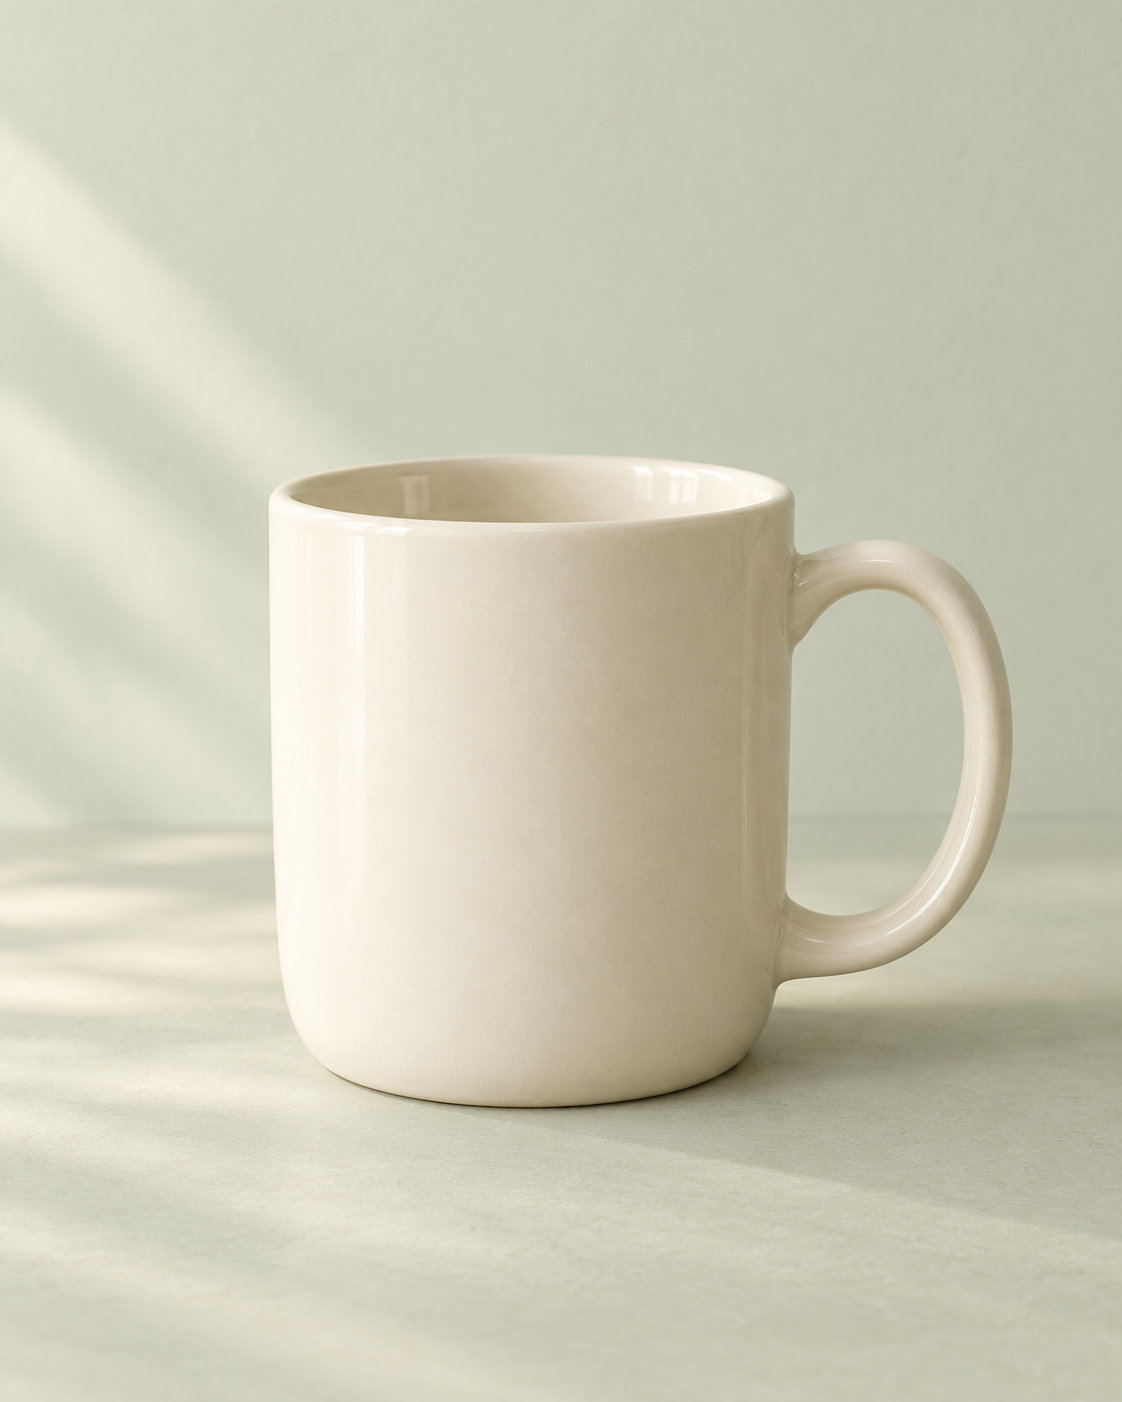
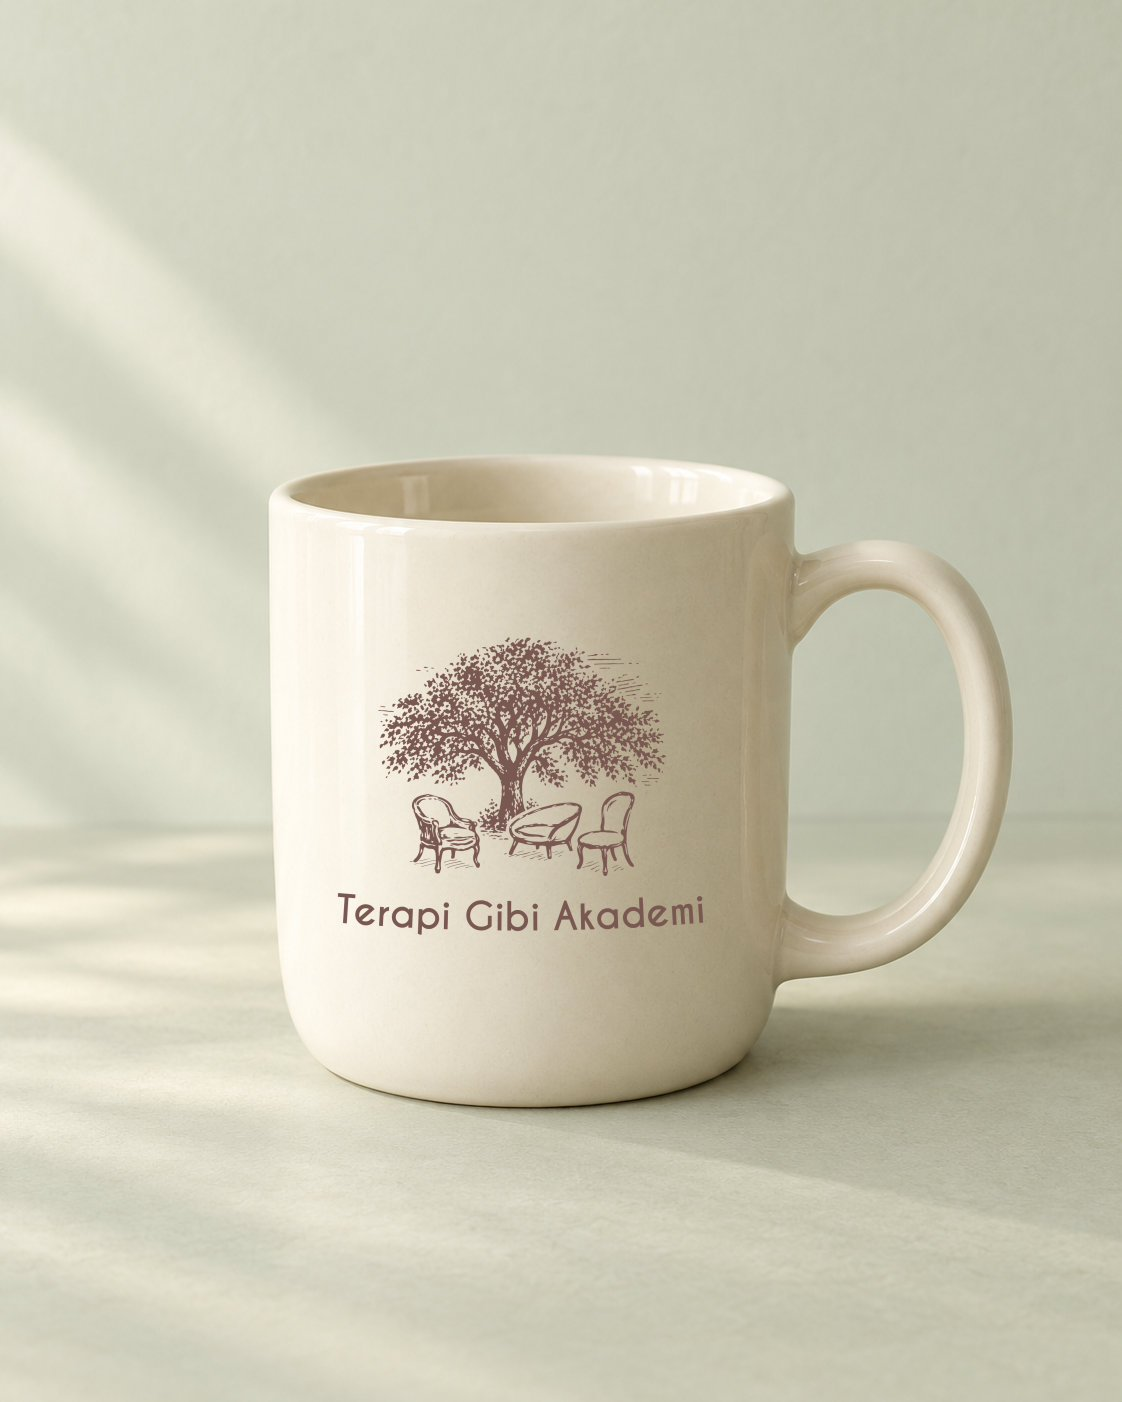
Shop: photos only; photo viewer carousel with looping arrows; white arrow on hover
- Shop cards show only the product photos (logo is drawn into the images), photos fill a 4:5 frame
- "The many ways of being together": full-screen photo viewer scrolls in a loop with round arrows, keyboard and swipe; arrows move below the photo on mobile
- Round arrow buttons: white arrow on the green fill on hover
- Remove unused logo.png and hero-tree.png

Changed region(s): [[0.3431, 0.4601, 0.5927, 0.6134], [0.3119, 0.6441, 0.6239, 0.6748]]

diff --git a/index.html b/index.html
@@ -6,7 +6,7 @@
   <meta name="description" content="Reading groups, workshops and a place to think together.">
   <link rel="preconnect" href="https://fonts.googleapis.com"><link rel="preconnect" href="https://fonts.gstatic.com" crossorigin>
   <link href="https://fonts.googleapis.com/css2?family=Josefin+Sans:wght@300..500&family=Manrope:wght@400;500;600&display=swap" rel="stylesheet">
-  <link rel="stylesheet" href="styles-v4.css?v=v4-logo2"><script src="locales-v3.js?v=date" defer></script><script src="i18n-v3.js?v=clean-1" defer></script><script src="hero-fx-v4.js?v=leaves-m2" defer></script><script src="home-v4.js?v=v4-menu2" defer></script>
+  <link rel="stylesheet" href="styles-v4.css?v=lightbox-nav2"><script src="locales-v3.js?v=lightbox-nav" defer></script><script src="i18n-v3.js?v=clean-1" defer></script><script src="hero-fx-v4.js?v=leaves-m2" defer></script><script src="home-v4.js?v=lightbox-nav2" defer></script>
 </head>
 <body>
 <a class="skip" href="#main">Skip to content</a>
@@ -54,7 +54,7 @@
     <article class="course"><button class="image-button" data-detail="clay-course" aria-label="Explore the ceramics course"><img src="assets-v3/ceramics.jpg" alt="Hands shaping a ceramic bowl" loading="lazy"><span class="image-label">4 MEETINGS</span></button><div class="course-meta"><span>Ceramics course</span><span>12 December</span></div><h3>Thinking with our hands:<br>a journey in ceramics</h3><div class="card-bottom"><span>₺3,200 / course</span><button class="text-link" data-detail="clay-course">Explore the course <img class="arrow" src="assets-v3/arrow.png" alt="" width="16" height="16"></button></div></article>
   </div></section>
 
-  <section class="shop-section tinted" id="shop"><div class="wrap"><p class="eyebrow">Shop</p><div class="section-heading"><h2>A little Akademi.<br>Every day.</h2><p class="short-copy">Objects to read with, write in and take along. A first look at our branded collection.</p></div><div class="product-grid"><article class="product product-mug"><button class="product-image" data-detail="product-mug" aria-label="View mug"><img class="product-photo" src="assets-v3/product-mug-v1.jpg" alt="An ivory ceramic mug with the Akademi logo" loading="lazy"><img class="product-mark" src="assets-v3/logo.png" alt=""></button><h3>Mug</h3><button class="text-link" data-detail="product-mug">View product <img class="arrow" src="assets-v3/arrow.png" alt="" width="16" height="16"></button></article><article class="product product-tshirt"><button class="product-image" data-detail="product-tshirt" aria-label="View t-shirt"><img class="product-photo" src="assets-v3/product-tshirt-v1.jpg" alt="An ivory T-shirt with the Akademi logo" loading="lazy"><img class="product-mark" src="assets-v3/logo.png" alt=""></button><h3>T-shirt</h3><button class="text-link" data-detail="product-tshirt">View product <img class="arrow" src="assets-v3/arrow.png" alt="" width="16" height="16"></button></article><article class="product product-calendar"><button class="product-image" data-detail="product-calendar" aria-label="View calendar"><img class="product-photo" src="assets-v3/calendar.jpg" alt="An illustrated desk calendar" loading="lazy"></button><h3>Calendar</h3><button class="text-link" data-detail="product-calendar">View product <img class="arrow" src="assets-v3/arrow.png" alt="" width="16" height="16"></button></article><article class="product product-notebook"><button class="product-image" data-detail="product-notebook" aria-label="View notebook"><img class="product-photo" src="assets-v3/product-notebook-v1.jpg" alt="A sage notebook with the Akademi logo" loading="lazy"><img class="product-mark" src="assets-v3/logo.png" alt=""></button><h3>Notebook</h3><button class="text-link" data-detail="product-notebook">View product <img class="arrow" src="assets-v3/arrow.png" alt="" width="16" height="16"></button></article><article class="product product-tote"><button class="product-image" data-detail="product-tote" aria-label="View tote bag"><img class="product-photo" src="assets-v3/product-tote-v1.jpg" alt="A natural cotton tote bag with the Akademi logo" loading="lazy"><img class="product-mark" src="assets-v3/logo.png" alt=""></button><h3>Tote bag</h3><button class="text-link" data-detail="product-tote">View product <img class="arrow" src="assets-v3/arrow.png" alt="" width="16" height="16"></button></article></div></div></section>
+  <section class="shop-section tinted" id="shop"><div class="wrap"><p class="eyebrow">Shop</p><div class="section-heading"><h2>A little Akademi.<br>Every day.</h2><p class="short-copy">Objects to read with, write in and take along. A first look at our branded collection.</p></div><div class="product-grid"><article class="product product-mug"><button class="product-image" data-detail="product-mug" aria-label="View mug"><img class="product-photo" src="assets-v3/product-mug-v1.jpg" alt="An ivory ceramic mug with the Akademi logo" loading="lazy"></button><h3>Mug</h3><button class="text-link" data-detail="product-mug">View product <img class="arrow" src="assets-v3/arrow.png" alt="" width="16" height="16"></button></article><article class="product product-tshirt"><button class="product-image" data-detail="product-tshirt" aria-label="View t-shirt"><img class="product-photo" src="assets-v3/product-tshirt-v1.jpg" alt="An ivory T-shirt with the Akademi logo" loading="lazy"></button><h3>T-shirt</h3><button class="text-link" data-detail="product-tshirt">View product <img class="arrow" src="assets-v3/arrow.png" alt="" width="16" height="16"></button></article><article class="product product-calendar"><button class="product-image" data-detail="product-calendar" aria-label="View calendar"><img class="product-photo" src="assets-v3/calendar.jpg" alt="An illustrated desk calendar" loading="lazy"></button><h3>Calendar</h3><button class="text-link" data-detail="product-calendar">View product <img class="arrow" src="assets-v3/arrow.png" alt="" width="16" height="16"></button></article><article class="product product-notebook"><button class="product-image" data-detail="product-notebook" aria-label="View notebook"><img class="product-photo" src="assets-v3/product-notebook-v1.jpg" alt="A sage notebook with the Akademi logo" loading="lazy"></button><h3>Notebook</h3><button class="text-link" data-detail="product-notebook">View product <img class="arrow" src="assets-v3/arrow.png" alt="" width="16" height="16"></button></article><article class="product product-tote"><button class="product-image" data-detail="product-tote" aria-label="View tote bag"><img class="product-photo" src="assets-v3/product-tote-v1.jpg" alt="A natural cotton tote bag with the Akademi logo" loading="lazy"></button><h3>Tote bag</h3><button class="text-link" data-detail="product-tote">View product <img class="arrow" src="assets-v3/arrow.png" alt="" width="16" height="16"></button></article></div></div></section>
 
   <section class="section wrap" id="moments"><p class="eyebrow">Around the table</p><div class="section-heading"><h2>The many ways of being together.</h2><p class="short-copy">Sometimes a sentence. Sometimes paint on our hands. Sometimes simply being in the same place.</p></div><div class="moments moments-mosaic"><figure class="moment-one"><button type="button" class="moment-open" aria-label="View photo: A little anticipation."><img src="assets-v3/client-workshop-setup.jpg" alt="Preparing the table for a lampshade painting workshop" loading="lazy"></button><figcaption class="moment-caption" aria-hidden="true">A little anticipation.</figcaption></figure><figure class="moment-two"><button type="button" class="moment-open" aria-label="View photo: Between the pages."><img src="assets-v3/client-reading-group.jpg" alt="Members of the Akademi reading club with their books" loading="lazy"></button><figcaption class="moment-caption" aria-hidden="true">Between the pages.</figcaption></figure><figure class="moment-three"><button type="button" class="moment-open" aria-label="View photo: Something of our own."><img src="assets-v3/client-workshop-group.jpg" alt="Workshop participants with their hand-painted plates" loading="lazy"></button><figcaption class="moment-caption" aria-hidden="true">Something of our own.</figcaption></figure><figure class="moment-four"><button type="button" class="moment-open" aria-label="View photo: Time at the same table."><img src="assets-v3/client-workshop-table-v1.jpg" alt="People painting lampshades around a shared workshop table" loading="lazy"></button><figcaption class="moment-caption" aria-hidden="true">Time at the same table.</figcaption></figure><figure class="moment-five"><button type="button" class="moment-open" aria-label="View photo: Room for a new idea."><img src="assets-v3/client-workshop-host-v1.jpg" alt="A workshop host beside a table of lampshades" loading="lazy"></button><figcaption class="moment-caption" aria-hidden="true">Room for a new idea.</figcaption></figure></div></section>
 
@@ -69,7 +69,7 @@
   <section class="section newsletter-section" id="newsletter"><div class="wrap newsletter"><div><p class="eyebrow">Letters from the Akademi</p><h2>A note before<br>our next gathering.</h2><p>New courses, a book we’re reading, and a place saved at the table.</p></div><form id="newsletter-form"><label for="email">Your email address</label><div class="email-row"><input id="email" name="email" type="email" autocomplete="email" placeholder="Your email address" required><button type="submit" aria-label="Join the newsletter"><img class="arrow" src="assets-v3/arrow.png" alt="" width="16" height="16"></button></div><label class="checkbox"><input type="checkbox" required><span>I would like to receive news and event announcements from the Akademi.</span></label><p id="form-status" role="status"></p></form></div></section>
 </main>
 <footer id="contact"><div class="wrap"><div class="footer-top"><a class="footer-brand" href="#"><img class="footer-logo-white" src="assets-v3/logo2.png" width="1480" height="512" alt="Terapi Gibi Akademi" loading="lazy"></a><p>There’s a place at this<br>table for you, too!</p><div><p class="eyebrow">Explore</p><a href="#calendar">Gatherings</a><a href="#courses">Courses</a><a href="#psychotherapy">Psychotherapy</a></div><div><p class="eyebrow">Contact & follow</p><a href="https://linktr.ee/terapigibiakademi" target="_blank" rel="noopener noreferrer">All contact channels</a><a href="https://www.instagram.com/terapigibiakademi/" target="_blank" rel="noopener noreferrer">Instagram</a><a href="#newsletter">Newsletter</a></div></div><p class="footer-wordmark" aria-hidden="true">Together, around the same table.</p><div class="footer-bottom"><span>© 2026 Terapi Gibi Akademi</span><a href="#">Back to top</a></div></div></footer>
-<dialog id="lightbox" aria-label="Photo viewer"><button type="button" class="lightbox-close" aria-label="Close photo">&times;</button><figure class="lightbox-figure"><img alt=""><figcaption></figcaption></figure></dialog>
+<dialog id="lightbox" aria-label="Photo viewer"><button type="button" class="lightbox-close" aria-label="Close photo">&times;</button><button type="button" class="round-link lightbox-nav lightbox-prev" aria-label="Previous photo"><img class="arrow" src="assets-v3/arrow.png" alt="" width="16" height="16"></button><button type="button" class="round-link lightbox-nav lightbox-next" aria-label="Next photo"><img class="arrow" src="assets-v3/arrow.png" alt="" width="16" height="16"></button><figure class="lightbox-figure"><img alt=""><figcaption></figcaption></figure></dialog>
 <dialog id="detail-dialog" aria-labelledby="dialog-title"><button class="dialog-close" aria-label="Close dialog">×</button><h2 id="dialog-title"></h2><p id="dialog-description"></p><button class="button dialog-done">Got it</button></dialog>
 </body>
 </html>

diff --git a/styles-v4.css b/styles-v4.css
@@ -24,15 +24,10 @@ h1{letter-spacing:-.02em}
 h2{letter-spacing:-.015em}
 /* Remove decorative numbering while retaining the event dates. */
 .ways>a{grid-template-columns:1fr 1fr 1.875rem}
-/* Five physical product categories; real logo layered over concept photography. */
+/* Five physical product categories; the logo is drawn into each photo, which fills a fixed 4:5 frame. */
 .product-grid{display:grid;grid-template-columns:repeat(5,minmax(0,1fr));gap:1.375rem}
-.product-image{position:relative;display:block;width:100%;padding:0;border:0;background:#e9eee4;overflow:hidden}
-.product-photo{width:100%;aspect-ratio:4/5;object-fit:cover}
-.product-mark{position:absolute;width:34%;height:auto;left:33%;top:49%;mix-blend-mode:multiply;pointer-events:none}
-.product-tshirt .product-mark{width:27%;left:36.5%;top:34%}
-.product-notebook .product-mark{width:33%;left:33.5%;top:41%}
-.product-tote .product-mark{width:38%;left:31%;top:53%}
-.product-calendar .product-photo{object-fit:contain;mix-blend-mode:multiply}
+.product-image{position:relative;display:block;width:100%;aspect-ratio:4/5;padding:0;border:0;background:#e9eee4;overflow:hidden}
+.product-photo{position:absolute;inset:0;width:100%;height:100%;object-fit:cover;object-position:center}
 .product h3{font-size:1.875rem;margin:1.1875rem 0 0.5rem}
 .product>p{font-size:0.6875rem;color:var(--muted);min-height:2.375rem;margin-bottom:1rem}
 .collection-note{font-size:0.625rem;color:var(--muted);margin-top:1.875rem;max-width:42.5rem}
@@ -65,7 +60,7 @@ h2{letter-spacing:-.015em}
  .moments-mosaic .moment-five{grid-column:1/-1;margin-top:0}
 }
 
-.product-notebook .product-mark{transform:rotate(-4deg)}
+
 
 /* Three scroll phases: tree passes behind copy, chairs settle, whole stage releases. */
 .hero{position:relative;isolation:isolate}
@@ -452,3 +447,12 @@ img.arrow{width:1rem!important;height:1rem!important;max-width:none!important;ma
 .header .brand img{width:auto;height:4.8125rem;max-width:none;object-fit:contain}
 .footer-brand img{width:auto;max-width:none;height:5.375rem}
 @media(max-width:700px){.header .brand{width:auto}.header .brand img{height:66px}.footer-brand img{max-width:none;height:68px}}
+
+/* arrows: white arrow on the green fill on hover (event links and the photo viewer) */
+@media(hover:hover){.round-link:hover img.arrow{filter:brightness(0) invert(1)!important}}
+/* photo viewer: previous / next, vertically centred on both sides */
+.lightbox-nav{position:absolute;top:50%;z-index:2;transform:translateY(-50%);border-color:var(--ink);cursor:pointer}
+.lightbox-prev{left:1.5rem}
+.lightbox-next{right:1.5rem}
+.lightbox-prev img.arrow{transform:scaleX(-1)}
+@media(max-width:700px){.lightbox-nav{top:auto;bottom:.75rem;transform:none;width:2.5rem;height:2.5rem}.lightbox-prev{left:1rem}.lightbox-next{right:1rem}}

diff --git a/home-v4.js b/home-v4.js
@@ -105,18 +105,34 @@
   if(document.fonts)document.fonts.ready.then(requestDraw);
   draw();
   // Seminar photo viewer: quick soft zoom from the thumbnail to full screen.
-  const lb=document.querySelector('#lightbox'),lbImg=lb.querySelector('img'),lbCap=lb.querySelector('figcaption');
+  const lb=document.querySelector('#lightbox'),lbImg=lb.querySelector('.lightbox-figure img'),lbCap=lb.querySelector('figcaption');
   let lbSource=null,lbClosing=false;
   const fitDelta=(from,to)=>({x:from.left+from.width/2-(to.left+to.width/2),y:from.top+from.height/2-(to.top+to.height/2),s:from.width/to.width});
-  document.querySelectorAll('.moment-open').forEach(btn=>btn.addEventListener('click',()=>{
-    const src=btn.querySelector('img');lbSource=src;lbImg.src=src.currentSrc||src.src;lbImg.alt=src.alt;
+  const momentBtns=[...document.querySelectorAll('.moment-open')];let lbIndex=0;
+  const lbSet=i=>{
+    const btn=momentBtns[i],src=btn.querySelector('img');lbIndex=i;lbSource=src;lbImg.src=src.currentSrc||src.src;lbImg.alt=src.alt;
     lbCap.textContent=btn.parentElement.querySelector('figcaption').textContent;
+  };
+  momentBtns.forEach((btn,i)=>btn.addEventListener('click',()=>{
+    lbSet(i);
     lb.showModal();lbClosing=false;
     if(still())return;
-    const to=lbImg.getBoundingClientRect(),d=fitDelta(src.getBoundingClientRect(),to);
+    const src=lbSource,to=lbImg.getBoundingClientRect(),d=fitDelta(src.getBoundingClientRect(),to);
     lb.animate([{opacity:0},{opacity:1}],{duration:240,easing:'ease-out'});
     lbImg.animate([{transform:`translate(${d.x}px,${d.y}px) scale(${d.s})`},{transform:'none'}],{duration:340,easing:'cubic-bezier(.2,.75,.2,1)'});
   }));
+  // Previous / next photo, looping through the whole set.
+  function stepViewer(dir){
+    if(lbClosing||!lb.open)return;
+    lbSet((lbIndex+dir+momentBtns.length)%momentBtns.length);
+    if(!still())lbImg.animate([{opacity:0},{opacity:1}],{duration:220,easing:'ease-out'});
+  }
+  lb.querySelector('.lightbox-prev').addEventListener('click',()=>stepViewer(-1));
+  lb.querySelector('.lightbox-next').addEventListener('click',()=>stepViewer(1));
+  lb.addEventListener('keydown',e=>{if(e.key==='ArrowLeft'){e.preventDefault();stepViewer(-1);}else if(e.key==='ArrowRight'){e.preventDefault();stepViewer(1);}});
+  let swipeX=null;
+  lb.addEventListener('touchstart',e=>{swipeX=e.touches.length===1?e.touches[0].clientX:null;},{passive:true});
+  lb.addEventListener('touchend',e=>{if(swipeX===null)return;const dx=e.changedTouches[0].clientX-swipeX;swipeX=null;if(Math.abs(dx)>50)stepViewer(dx<0?1:-1);});
   function closeViewer(){
     if(lbClosing||!lb.open)return;lbClosing=true;
     if(still()||!lbSource){lb.close();return;}

diff --git a/locales-v3.js b/locales-v3.js
@@ -224,6 +224,8 @@ tr:{
 "Got it":"Anladım",
 "Photo viewer":"Fotoğraf görüntüleyici",
 "Close photo":"Fotoğrafı kapat",
+"Previous photo":"Önceki fotoğraf",
+"Next photo":"Sonraki fotoğraf",
 "Close dialog":"Pencereyi kapat",
 
 /* Dialog contents (home-v3.js) */
